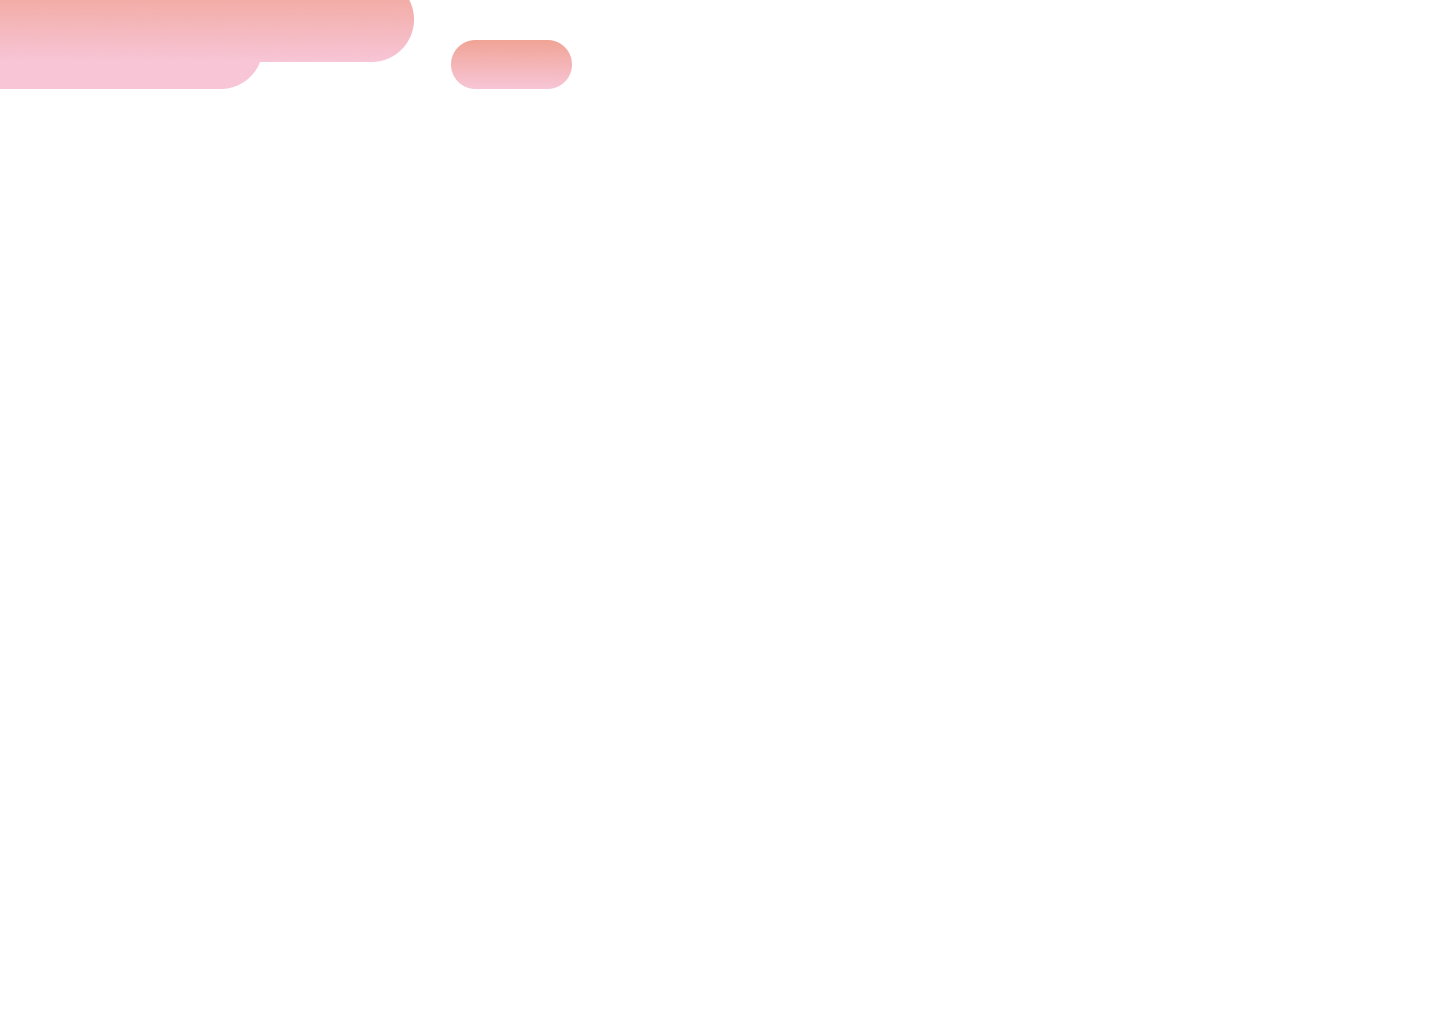
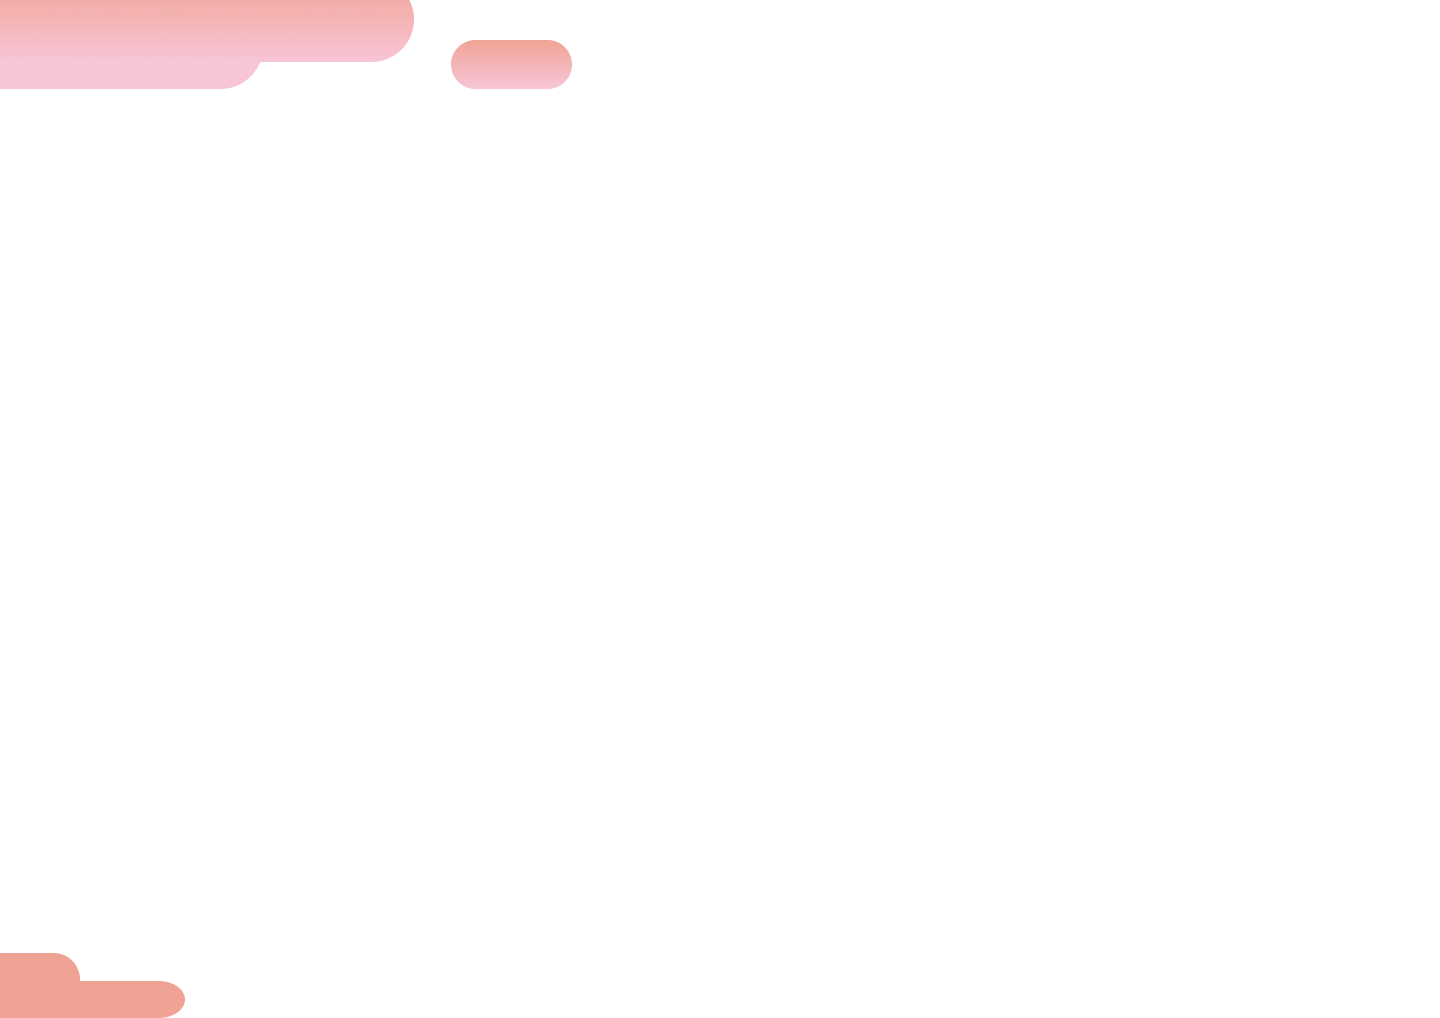
start on summar

Changed region(s): [[0.0, 0.9163, 0.125, 1.0]]

diff --git a/frontend/cmdf-2023-project/src/components/summary.js b/frontend/cmdf-2023-project/src/components/summary.js
@@ -1,0 +1,41 @@
+import React from 'react'
+import { Container, Row, Col } from 'react-grid-system'
+import "./summary.css"
+
+
+import bg from './../assets/bg2.png'
+import peach1 from './../assets/dog1.png'
+
+
+import ScrollBar from './scrollBar'
+import { Product } from './Product'
+import { AltProduct } from './altProduct'
+import { InputBar } from './InputBar'
+import { AddButton } from './AddButton'
+import { SummaryBox } from './SummaryBox'
+import { TotalSavingTextBox } from './TotalSavingTextBox'
+
+const Summary = () => {
+  return (
+    <div id='1' className='boxSummary' style={{ minHeight: '100vh', marginTop: '0rem' }}>
+
+      <Container className='summary' style={{ margin: 'auto', alignContent: 'center' }}>
+        <h1 className='summaryText'> Your Summary</h1>
+        <Col style={{alignItems:'center'}}>
+          <SummaryBox ></SummaryBox>
+          <TotalSavingTextBox ></TotalSavingTextBox>
+        </Col>
+
+
+
+
+      </Container>
+
+
+
+
+    </div>
+  )
+}
+
+export default Summary

diff --git a/frontend/cmdf-2023-project/src/components/summary.css b/frontend/cmdf-2023-project/src/components/summary.css
@@ -1,13 +1,12 @@
 
 
-.boxLanding {
-    background-Image: url(../assets/bg1.png);
-    background-size: contain;
+.boxSummary {
+    background-Image: url(../assets/bg2.png);
+    background-size: cover;
     background-repeat: no-repeat;
 }
 
-.justpeachy  {
-    margin-top: 6rem;
+.summaryText  {
     margin-bottom: 1rem;
     margin-left: 3rem;
     font-family: 'Inter';
@@ -15,9 +14,8 @@
     font-weight: 700;
     font-size: 4rem;
     line-height: 91px;
-    background: -webkit-linear-gradient(180deg, #F0A395 0%, #F7C5D6 75.89%);
-    -webkit-background-clip: text;
-    -webkit-text-fill-color: transparent;
+    color: #fff;
+    padding-top: 2rem;
     /* justpeachy */
 }
 

diff --git a/frontend/cmdf-2023-project/src/App.js b/frontend/cmdf-2023-project/src/App.js
@@ -5,13 +5,15 @@ import { AddButton } from './components/AddButton';
 import { ResourceCard } from './components/ResourceCard';
 import { SummaryBox } from './components/SummaryBox';
 import { TotalSavingTextBox } from './components/TotalSavingTextBox';
-import ScrollBar from './components/ScrollBar';
+import ScrollBar from './components/scrollBar';
+import Landing from './components/landing';
+import Summary from './components/summary';
 
 function App() {
   return (
     <div >
-      <ScrollBar></ScrollBar>
-      <TotalSavingTextBox total={12.59} />
+      <Landing></Landing>
+      <Summary></Summary>
     </div>
   );
 }

diff --git a/frontend/cmdf-2023-project/src/components/landing.js b/frontend/cmdf-2023-project/src/components/landing.js
@@ -15,7 +15,7 @@ import { AddButton } from './AddButton'
 
 const Landing = () => {
   return (
-    <div id='1' className='boxLanding' style={{height:'100vh', marginTop:'0rem'}}>
+    <div id='1' className='boxLanding' style={{minHeight:'100vh', marginTop:'0rem'}}>
        
       <Container className='product' style={{margin:'auto'}}>
         

diff --git a/frontend/cmdf-2023-project/src/components/TotalSavingTextBox.js b/frontend/cmdf-2023-project/src/components/TotalSavingTextBox.js
@@ -4,7 +4,7 @@ import styled from "styled-components";
 const OuterContainer = styled.div`
     text-align: center;
     align-items: center;
-    dispaly: flex;
+    display: flex;
     justify-content: center;
     border-radius: 10px;
     width: 30em;
